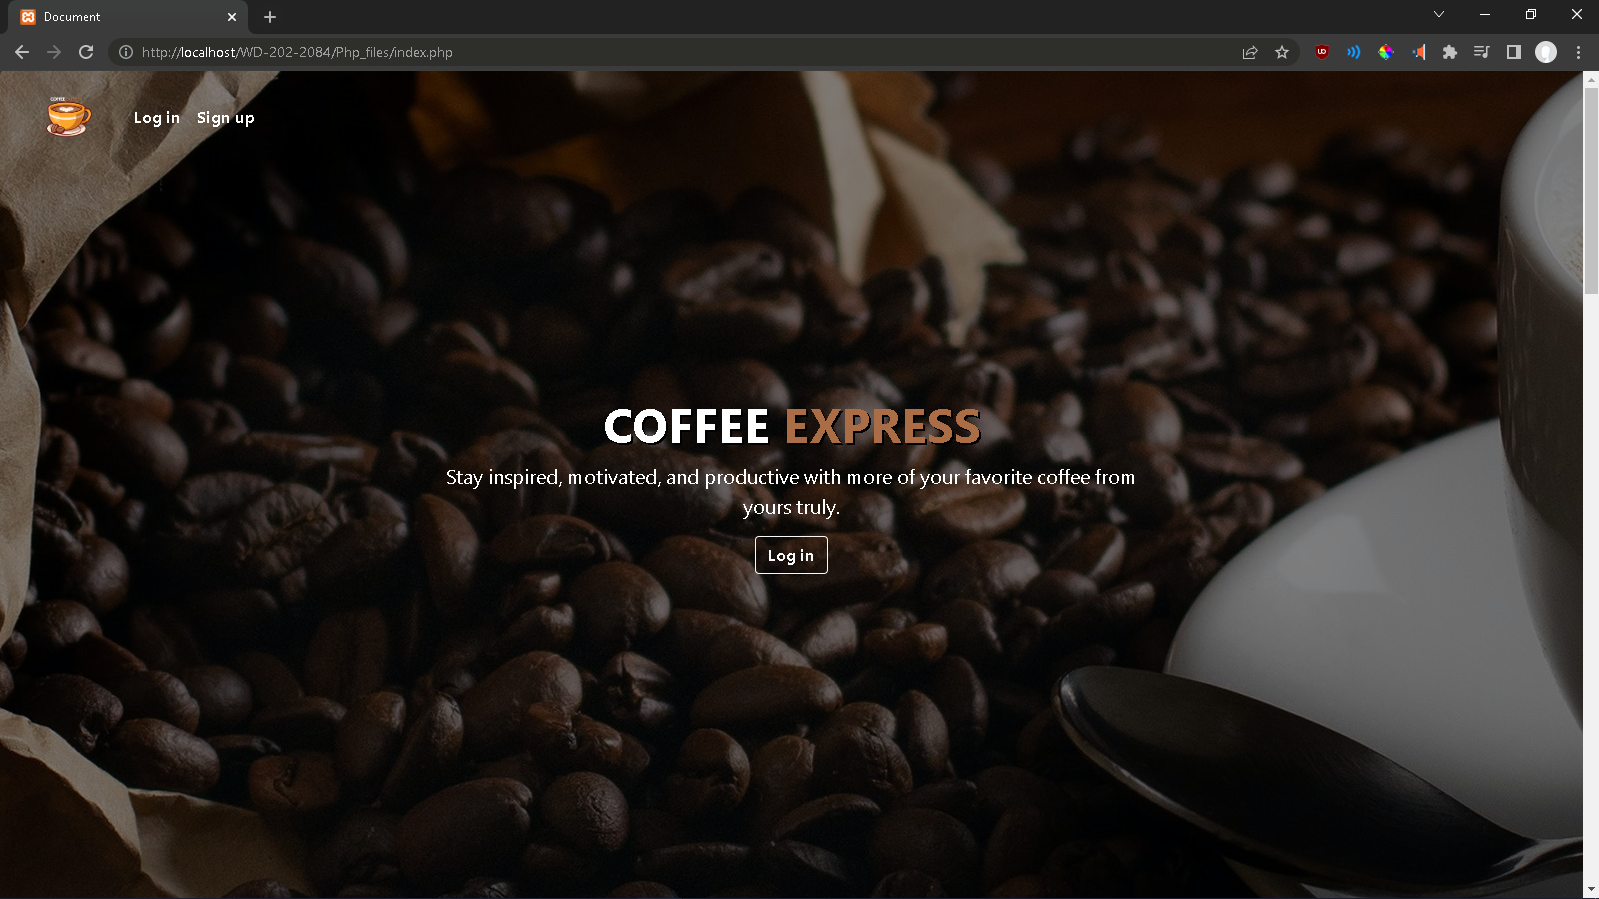
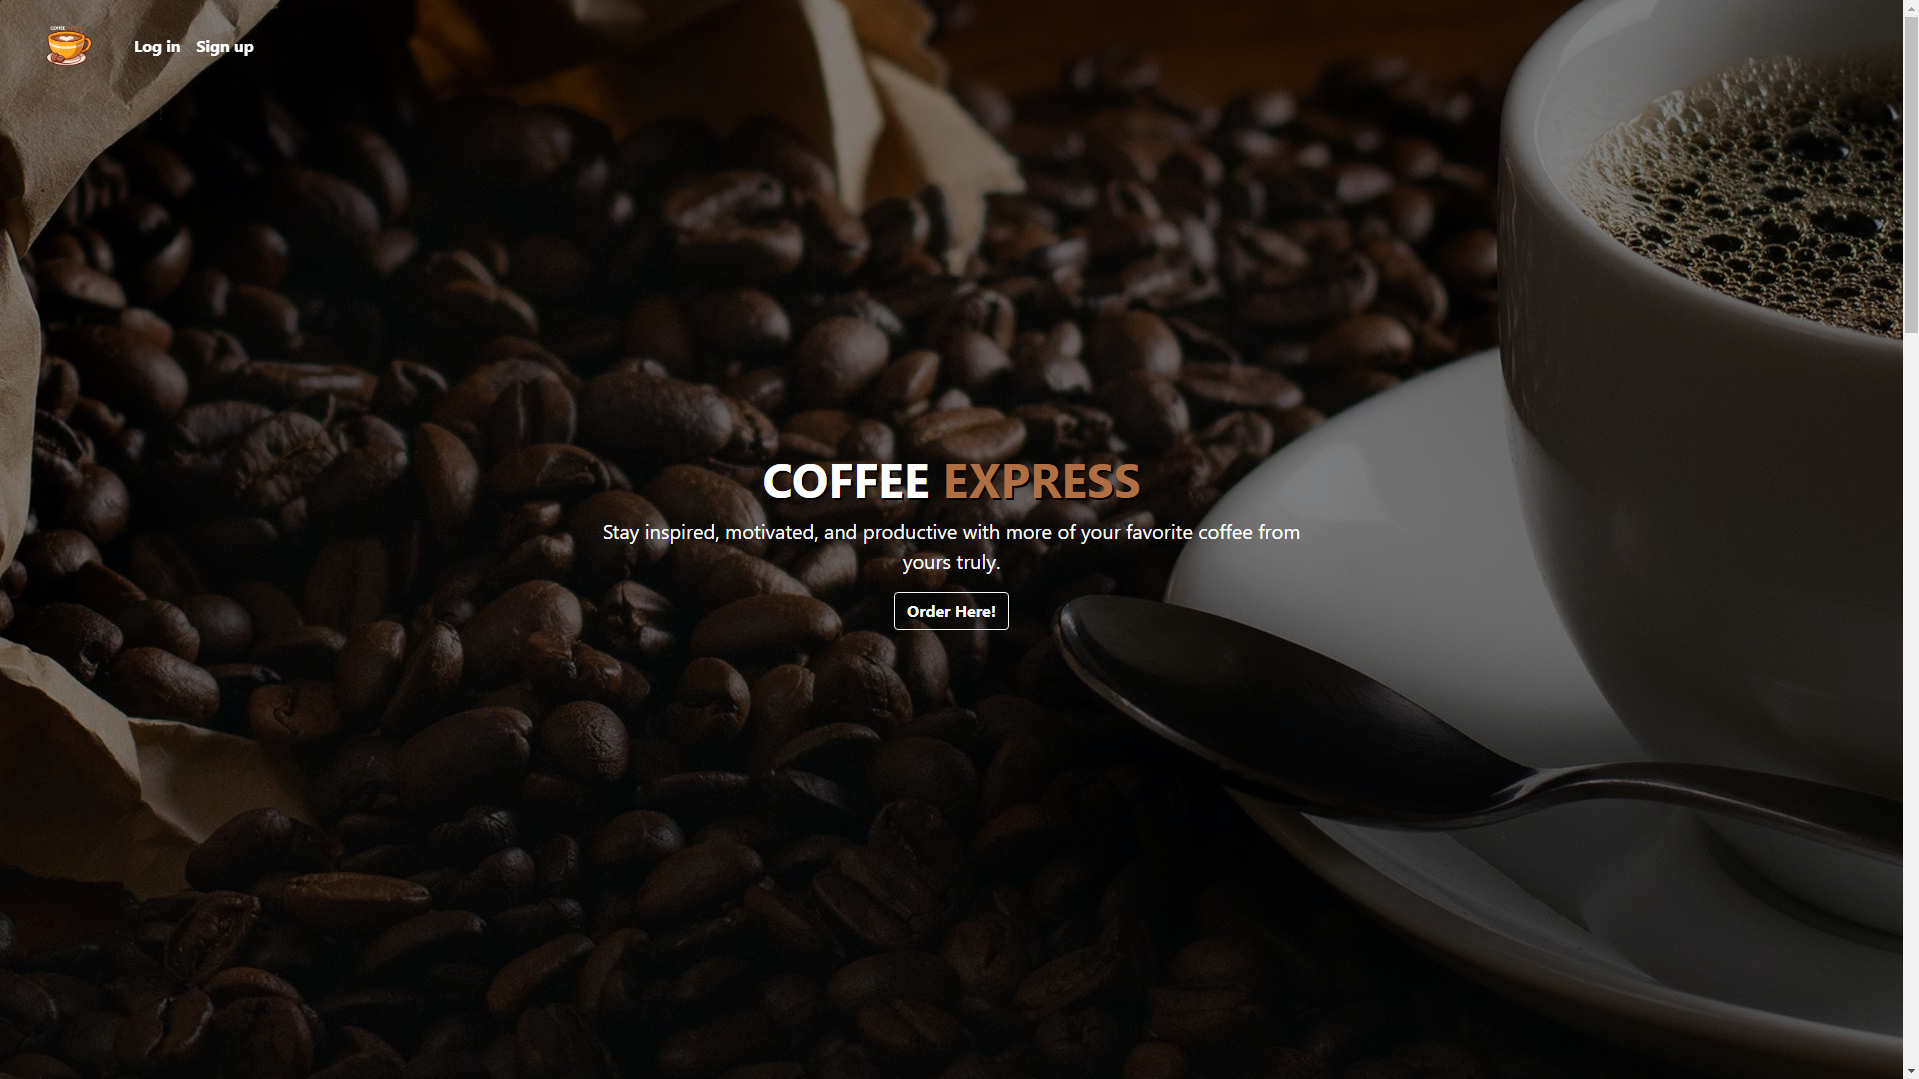
updated featured and projects section
updated image and links.

diff --git a/index.html b/index.html
@@ -86,7 +86,7 @@
               <p>Bootstrap</p>
             </div>
             <div class="link">
-              <a href="https://github.com/sambuenaventura">
+              <a href="https://github.com/sambuenaventura/coffee-shop">
                 <svg
                   stroke="currentColor"
                   fill="currentColor"
@@ -105,33 +105,35 @@
                 </svg>
               </a>
               <a
-                href="https://github.com/sambuenaventura"
+                href="https://sambuenaventura.github.io/coffee-shop/"
                 class="proj-link"
                 target="_blank"
-                >samb.coffeeshop.com→</a
+                >samb-coffeeshop→</a
               >
             </div>
           </div>
           <div class="featured-image scroll-animation scroll-animation-right">
-            <img src="assets/images/coffee_express2.png" alt="" />
+            <img src="assets/images/coffee_express.png" alt="" />
           </div>
         </div>
         <!--Project 2-->
         <div class="flex-featured">
           <div class="featured-content scroll-animation scroll-animation-left">
-            <h2>6ADVDBASE - Final Project</h2>
+            <h2>Car Rental Website</h2>
             <p>
-              In this project, I was tasked to make a web application which uses
-              PHP and connects to MongoDB that lists and filters the results of
-              the user.
+              In this project, I have created a car rental website, putting a
+              major emphasis on the front-end development. I utilized pure CSS
+              to enhance the visual aesthetics and incorporated JavaScript to
+              manipulate the DOM, allowing for a high level of customization in
+              terms of the site's design and functionality.
             </p>
             <div class="techs">
-              <p>PHP</p>
-              <p>MongoDB</p>
-              <p>Bootstrap</p>
+              <p>HTML</p>
+              <p>CSS</p>
+              <p>JavaScript</p>
             </div>
             <div class="link">
-              <a href="https://github.com/sambuenaventura">
+              <a href="https://github.com/sambuenaventura/car-rental">
                 <svg
                   stroke="currentColor"
                   fill="currentColor"
@@ -150,35 +152,33 @@
                 </svg>
               </a>
               <a
-                href="https://github.com/sambuenaventura"
+                href="https://sambuenaventura.github.io/car-rental/"
                 class="proj-link"
                 target="_blank"
-                >samb.restaurant.com→</a
+                >car-rental→</a
               >
             </div>
           </div>
           <div class="featured-image scroll-animation scroll-animation-right">
-            <img src="assets/images/restaurant.png" alt="" />
+            <img src="assets/images/car-rental.jpg" alt="" />
           </div>
         </div>
       </section>
       <section id="projects">
         <div class="grid-container">
           <div class="item item-1 scroll-animation2 scroll-animation-box">
-            <h1>6INFOMAN - Final Case Study</h1>
+            <h1>Personal Portfolio</h1>
             <p>
-              In this project, I was tasked to make a crud web application using
-              HTML and CSS together with MySQL and PHP. Basically, it is a
-              coffee shop POS system. Users can browse through our menu and
-              order coffee through their liking.
+              This project is my personal portfolio where you can see my
+              projects and have an idea about me.
             </p>
             <div class="techs">
-              <p>PHP</p>
-              <p>MySQL</p>
-              <p>Bootstrap</p>
+              <p>HTML</p>
+              <p>CSS</p>
+              <p>JavaScript</p>
             </div>
             <div class="link">
-              <a href="https://github.com/sambuenaventura">
+              <a href="https://github.com/sambuenaventura/samb-portfolio">
                 <svg
                   stroke="currentColor"
                   fill="currentColor"
@@ -197,25 +197,20 @@
                 </svg>
               </a>
               <a
-                href="https://github.com/sambuenaventura"
+                href="https://sambuenaventura.github.io/samb-portfolio/"
                 class="proj-link"
                 target="_blank"
-                >samb.coffeeshop.com→</a
+                >samb-portfolio→</a
               >
             </div>
           </div>
           <div class="item item-2 scroll-animation2 scroll-animation-box">
-            <h1>6INFOMAN - Final Case Study</h1>
-            <p>
-              In this project, I was tasked to make a crud web application using
-              HTML and CSS together with MySQL and PHP. Basically, it is a
-              coffee shop POS system. Users can browse through our menu and
-              order coffee through their liking.
-            </p>
+            <h1>[Project Name]</h1>
+            <p>[Project Description]</p>
             <div class="techs">
-              <p>PHP</p>
-              <p>MySQL</p>
-              <p>Bootstrap</p>
+              <p>[Technology 1]</p>
+              <p>[Technology 2]</p>
+              <p>[Technology 3]</p>
             </div>
             <div class="link">
               <a href="https://github.com/sambuenaventura">
@@ -240,22 +235,17 @@
                 href="https://github.com/sambuenaventura"
                 class="proj-link"
                 target="_blank"
-                >samb.coffeeshop.com→</a
+                >website link→</a
               >
             </div>
           </div>
           <div class="item item-3 scroll-animation2 scroll-animation-box">
-            <h1>6INFOMAN - Final Case Study</h1>
-            <p>
-              In this project, I was tasked to make a crud web application using
-              HTML and CSS together with MySQL and PHP. Basically, it is a
-              coffee shop POS system. Users can browse through our menu and
-              order coffee through their liking.
-            </p>
+            <h1>[Project Name]</h1>
+            <p>[Project Description]</p>
             <div class="techs">
-              <p>PHP</p>
-              <p>MySQL</p>
-              <p>Bootstrap</p>
+              <p>[Technology 1]</p>
+              <p>[Technology 2]</p>
+              <p>[Technology 3]</p>
             </div>
             <div class="link">
               <a href="https://github.com/sambuenaventura">
@@ -280,7 +270,7 @@
                 href="https://github.com/sambuenaventura"
                 class="proj-link"
                 target="_blank"
-                >samb.coffeeshop.com→</a
+                >website link→</a
               >
             </div>
           </div>
